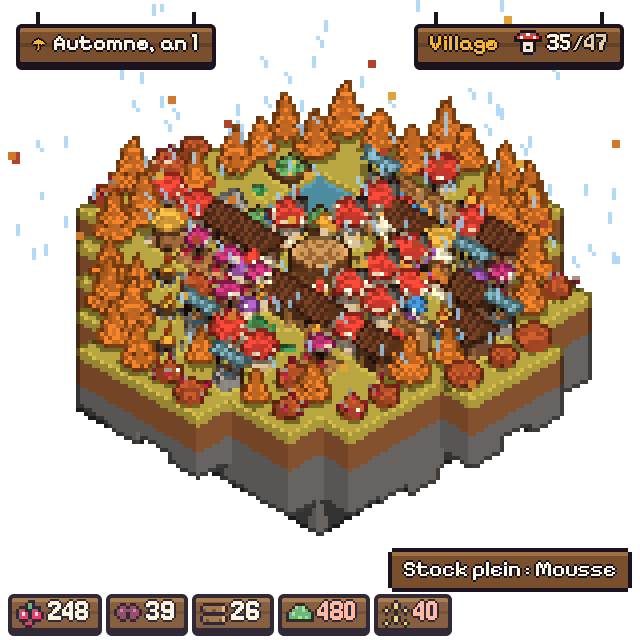
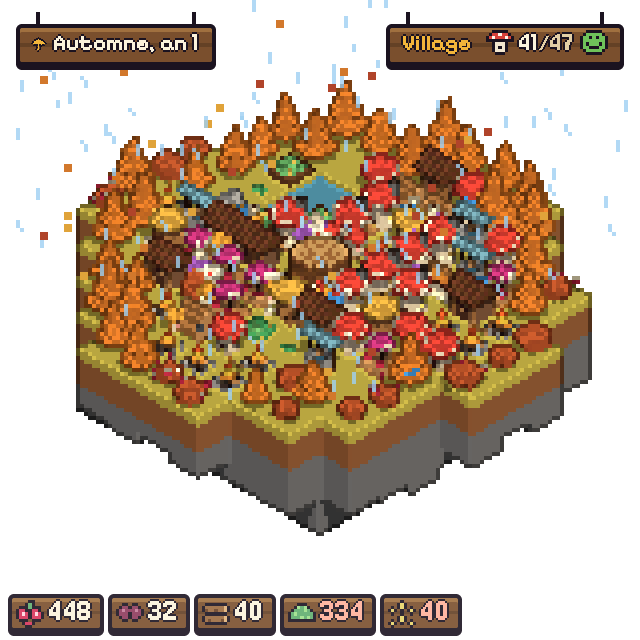
README : captures à jour (panneaux stables, faim, bonheur), menu de démarrage

diff --git a/apps/desktop/demo/demo.ts b/apps/desktop/demo/demo.ts
@@ -1,4 +1,4 @@
-// Développement seulement : `/demo.html?graine=1&minutes=45` fait jouer le joueur scripté des tests,
+// Développement seulement : `/demo.html?graine=1&minutes=45` (ajouter `&menu` pour garder le menu de démarrage) fait jouer le joueur scripté des tests,
 // écrit la partie obtenue à la place de celle du navigateur, puis ouvre le jeu dessus.
 import { contenu } from '@tiny-shrooms/content';
 import { creerEtat, Moteur, serialiser } from '@tiny-shrooms/engine';
@@ -15,4 +15,5 @@ for (let s = 0; s < minutes * 60; s += 5) {
   moteur.simuler(5 * PAS_PAR_SECONDE);
 }
 localStorage.setItem('tiny-shrooms.partie', serialiser(moteur.etatCourant));
-location.replace('/?sansMenu');
+// `&menu` : on garde le menu de démarrage (capture du menu).
+location.replace(parametres.has('menu') ? '/' : '/?sansMenu');

diff --git a/README.md b/README.md
@@ -74,7 +74,7 @@ Pour savoir quel Mac tu as : menu Pomme → **À propos de ce Mac**. « Puce » 
 
 ## 🎮 Jouer
 
-<img src="docs/gros-plan.png" width="280" align="right" alt="Gros plan sur le village" />
+<img src="docs/menu.png" width="260" align="right" alt="Menu de démarrage" />
 
 | Action | Commande |
 |---|---|
@@ -84,10 +84,13 @@ Pour savoir quel Mac tu as : menu Pomme → **À propos de ce Mac**. « Puce » 
 | Zoomer | **molette** ou `Z` |
 | Tourner l'île | `←` `→` ou `Q` `E` |
 
+Au lancement, un menu propose **Continuer** ou **Nouvelle partie** ; **Paramètres** regroupe le son, la langue et
+le rappel des commandes.
+
 Si la fenêtre n’est pas active, le premier clic ne fait que l’activer. Position verrouillée (menu de l’icône) : glisser déplace la vue.
 
-Le **menu de l'icône** permet d'afficher ou de cacher la fenêtre, de verrouiller sa position, et de régler le son
-(coupé au départ) et la langue.
+Le **menu de l'icône** permet d'afficher ou de cacher la fenêtre, de verrouiller sa position, de régler le son
+(coupé au départ) et la langue, et montre où en est la mise à jour.
 
 💾 La partie s'enregistre toute seule. Appli fermée, le jeu est en pause ; fenêtre cachée, la ville continue de vivre.
 
